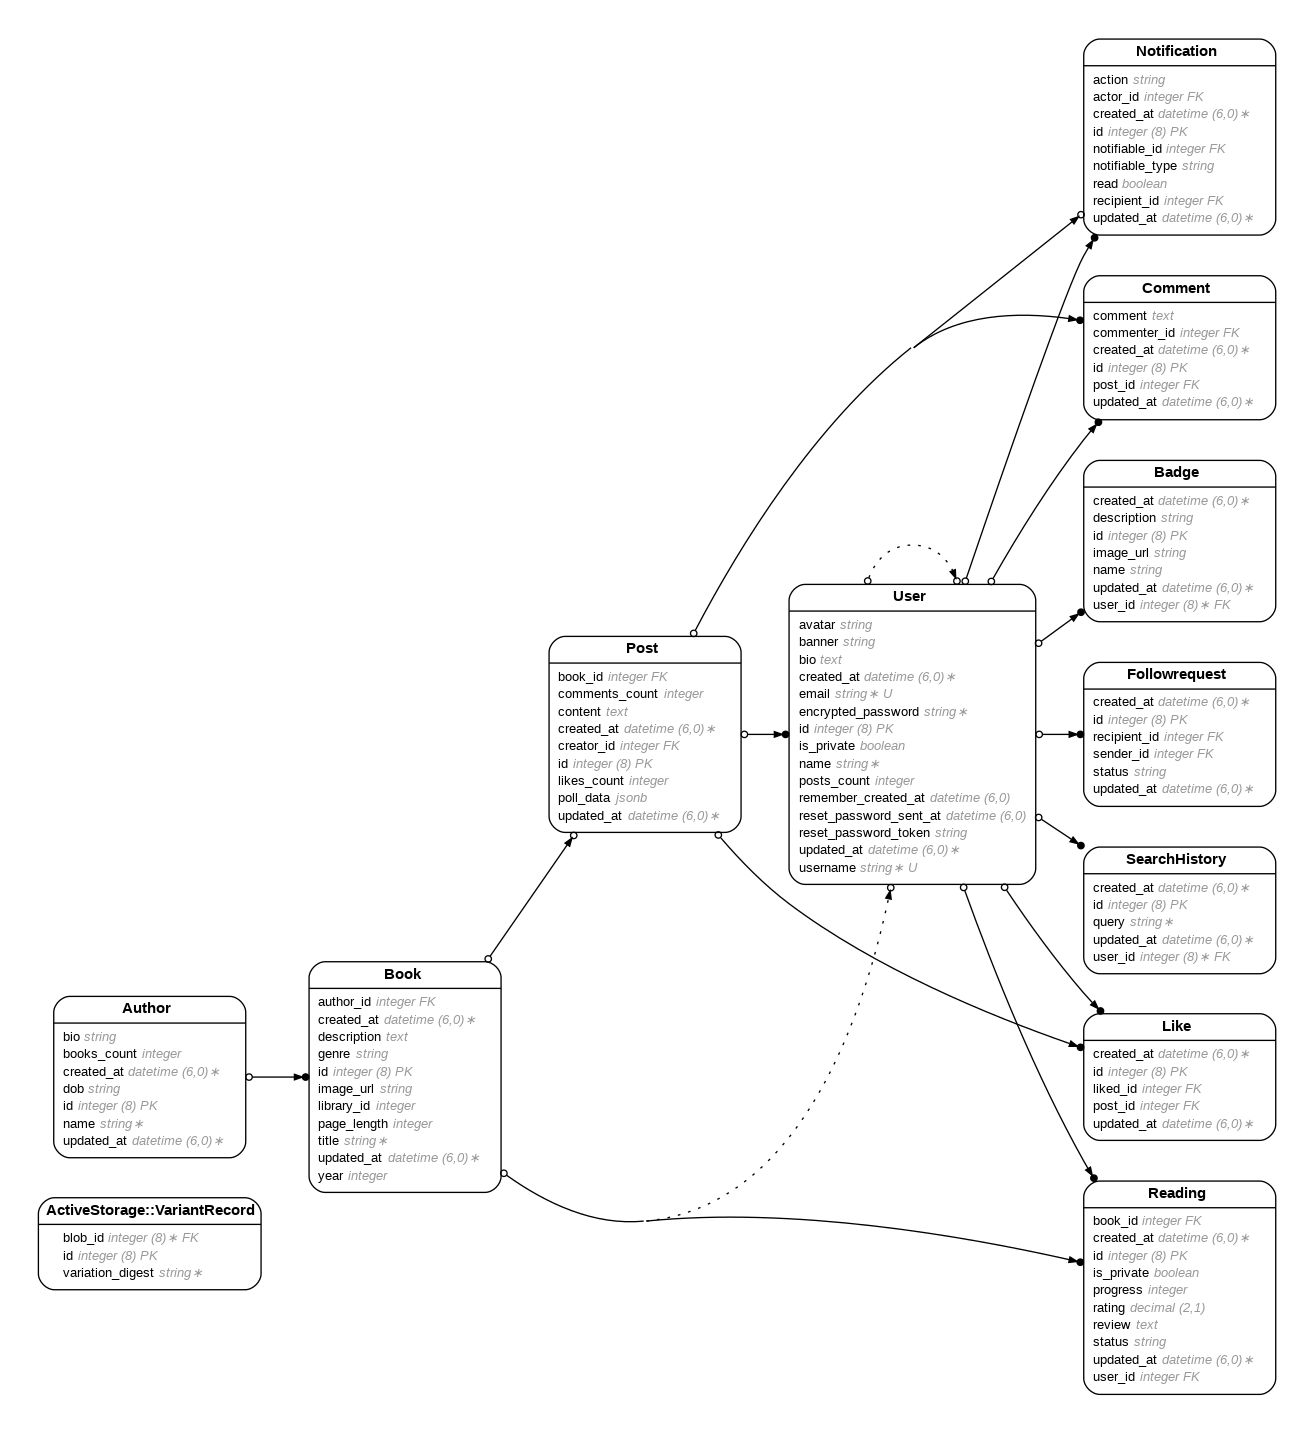
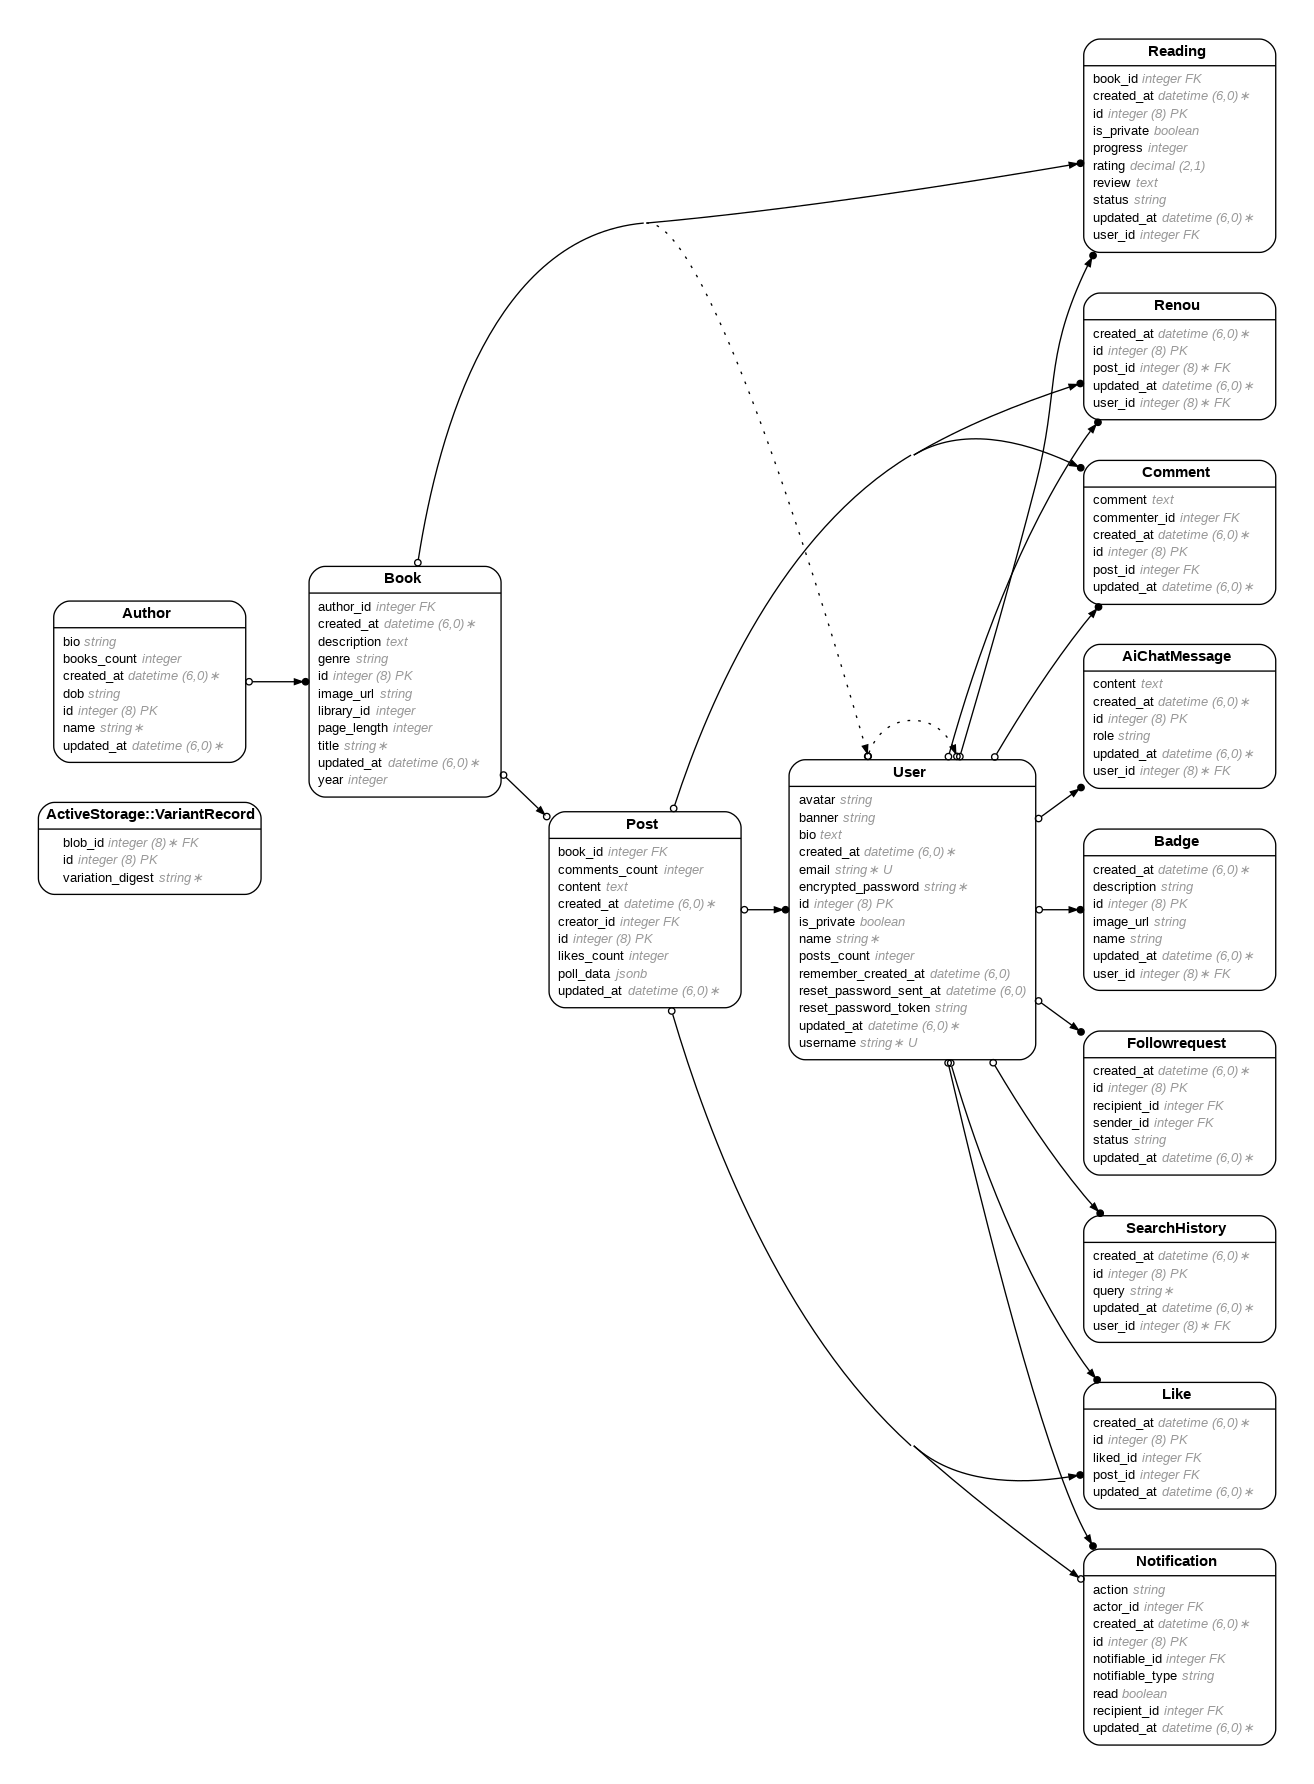
Migrated new tables

diff --git a/db/schema.rb b/db/schema.rb
@@ -10,7 +10,7 @@
 #
 # It's strongly recommended that you check this file into your version control system.
 
-ActiveRecord::Schema[7.1].define(version: 2025_07_20_000000) do
+ActiveRecord::Schema[7.1].define(version: 2025_07_21_001000) do
   # These are extensions that must be enabled in order to support this database
   enable_extension "plpgsql"
 
@@ -40,6 +40,15 @@ ActiveRecord::Schema[7.1].define(version: 2025_07_20_000000) do
     t.bigint "blob_id", null: false
     t.string "variation_digest", null: false
     t.index ["blob_id", "variation_digest"], name: "index_active_storage_variant_records_uniqueness", unique: true
+  end
+
+  create_table "ai_chat_messages", force: :cascade do |t|
+    t.bigint "user_id", null: false
+    t.string "role"
+    t.text "content"
+    t.datetime "created_at", null: false
+    t.datetime "updated_at", null: false
+    t.index ["user_id"], name: "index_ai_chat_messages_on_user_id"
   end
 
   create_table "authors", force: :cascade do |t|
@@ -132,23 +141,6 @@ ActiveRecord::Schema[7.1].define(version: 2025_07_20_000000) do
     t.index ["user_id", "book_id"], name: "index_readings_on_user_id_and_book_id", unique: true
   end
 
-  create_table "search_histories", force: :cascade do |t|
-    t.bigint "user_id", null: false
-    t.string "query"
-    t.datetime "created_at", null: false
-    t.datetime "updated_at", null: false
-    t.index ["user_id"], name: "index_search_histories_on_user_id"
-  end
-
-  create_table "ai_chat_messages", force: :cascade do |t|
-    t.bigint "user_id", null: false
-    t.string "role"
-    t.text "content"
-    t.datetime "created_at", null: false
-    t.datetime "updated_at", null: false
-    t.index ["user_id"], name: "index_ai_chat_messages_on_user_id"
-  end
-
   create_table "renous", force: :cascade do |t|
     t.bigint "user_id", null: false
     t.bigint "post_id", null: false
@@ -157,6 +149,14 @@ ActiveRecord::Schema[7.1].define(version: 2025_07_20_000000) do
     t.index ["post_id"], name: "index_renous_on_post_id"
     t.index ["user_id", "post_id"], name: "index_renous_on_user_id_and_post_id", unique: true
     t.index ["user_id"], name: "index_renous_on_user_id"
+  end
+
+  create_table "search_histories", force: :cascade do |t|
+    t.bigint "user_id", null: false
+    t.string "query"
+    t.datetime "created_at", null: false
+    t.datetime "updated_at", null: false
+    t.index ["user_id"], name: "index_search_histories_on_user_id"
   end
 
   create_table "users", force: :cascade do |t|
@@ -180,9 +180,9 @@ ActiveRecord::Schema[7.1].define(version: 2025_07_20_000000) do
 
   add_foreign_key "active_storage_attachments", "active_storage_blobs", column: "blob_id"
   add_foreign_key "active_storage_variant_records", "active_storage_blobs", column: "blob_id"
-  add_foreign_key "badges", "users"
-  add_foreign_key "search_histories", "users"
   add_foreign_key "ai_chat_messages", "users"
+  add_foreign_key "badges", "users"
   add_foreign_key "renous", "posts"
   add_foreign_key "renous", "users"
+  add_foreign_key "search_histories", "users"
 end

diff --git a/app/models/renou.rb b/app/models/renou.rb
@@ -1,3 +1,24 @@
+# == Schema Information
+#
+# Table name: renous
+#
+#  id         :bigint           not null, primary key
+#  created_at :datetime         not null
+#  updated_at :datetime         not null
+#  post_id    :bigint           not null
+#  user_id    :bigint           not null
+#
+# Indexes
+#
+#  index_renous_on_post_id              (post_id)
+#  index_renous_on_user_id              (user_id)
+#  index_renous_on_user_id_and_post_id  (user_id,post_id) UNIQUE
+#
+# Foreign Keys
+#
+#  fk_rails_...  (post_id => posts.id)
+#  fk_rails_...  (user_id => users.id)
+#
 class Renou < ApplicationRecord
   belongs_to :user
   belongs_to :post

diff --git a/app/models/ai_chat_message.rb b/app/models/ai_chat_message.rb
@@ -1,3 +1,22 @@
+# == Schema Information
+#
+# Table name: ai_chat_messages
+#
+#  id         :bigint           not null, primary key
+#  content    :text
+#  role       :string
+#  created_at :datetime         not null
+#  updated_at :datetime         not null
+#  user_id    :bigint           not null
+#
+# Indexes
+#
+#  index_ai_chat_messages_on_user_id  (user_id)
+#
+# Foreign Keys
+#
+#  fk_rails_...  (user_id => users.id)
+#
 class AiChatMessage < ApplicationRecord
   belongs_to :user
 end
